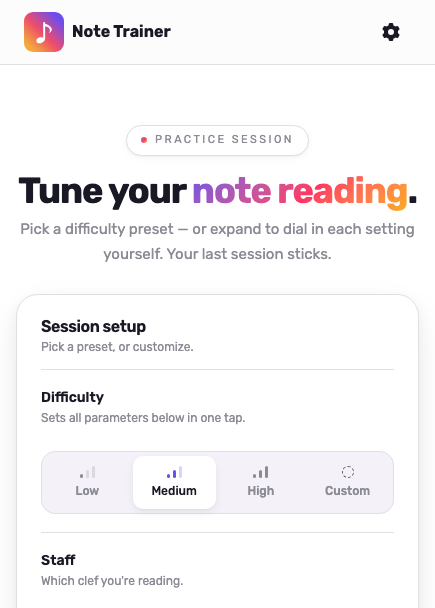
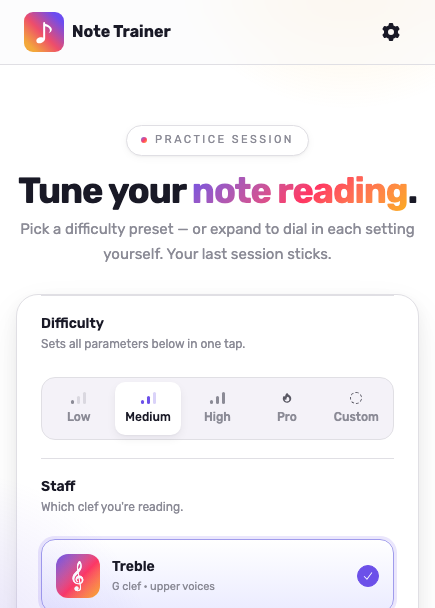
fix: e2e test looking at removed section

diff --git a/apps/e2e/src/specs/home.spec.ts b/apps/e2e/src/specs/home.spec.ts
@@ -15,7 +15,6 @@ test.describe("home", () => {
   });
 
   test("renders session setup card with all settings", async ({ page }) => {
-    await expect(page.getByText("Session setup")).toBeVisible();
     await expect(page.getByText("Difficulty", { exact: true })).toBeVisible();
     await expect(page.getByText("Staff", { exact: true })).toBeVisible();
 
@@ -29,6 +28,7 @@ test.describe("home", () => {
   });
 
   test("renders footer with github and linkedin links", async ({ page }) => {
+    await expect(page.getByRole("link", { name: "Homepage" })).toBeVisible();
     await expect(page.getByRole("link", { name: "GitHub" })).toBeVisible();
     await expect(page.getByRole("link", { name: "LinkedIn" })).toBeVisible();
   });
